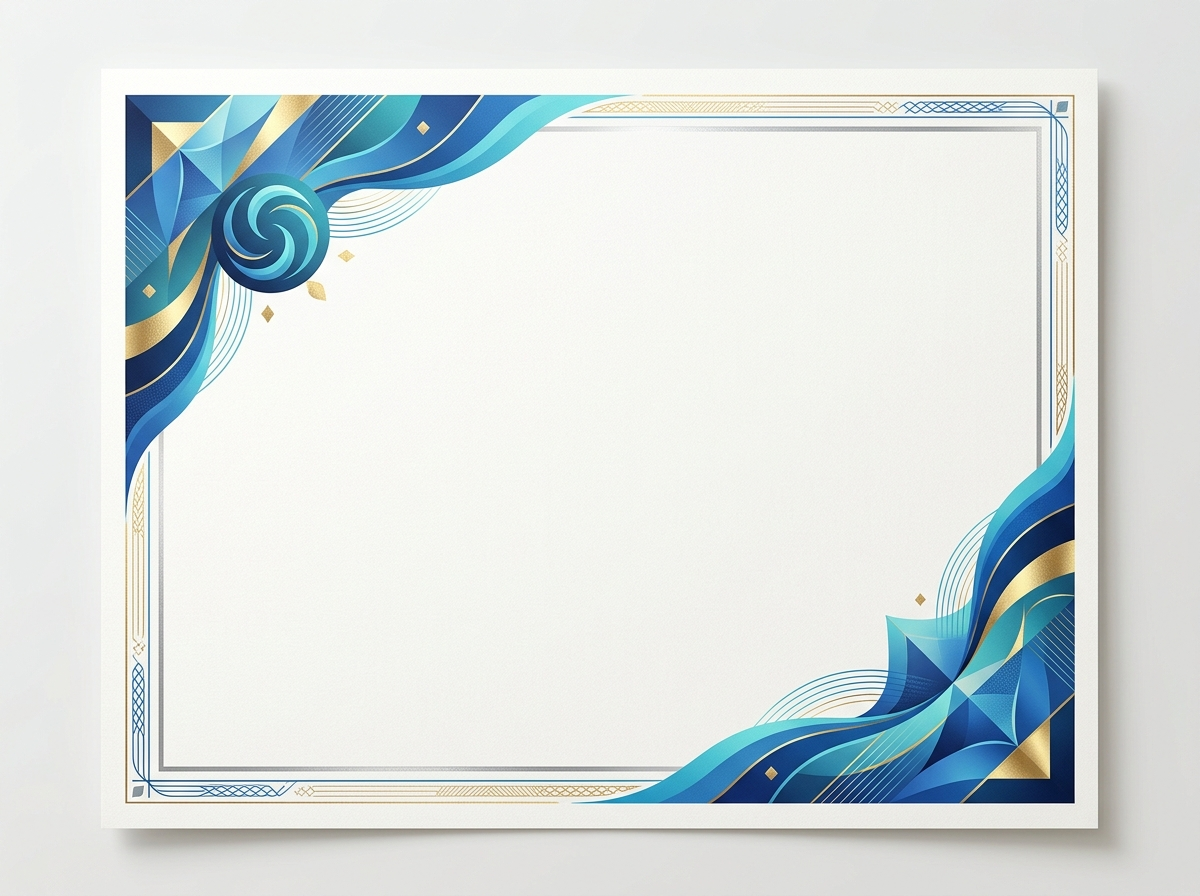
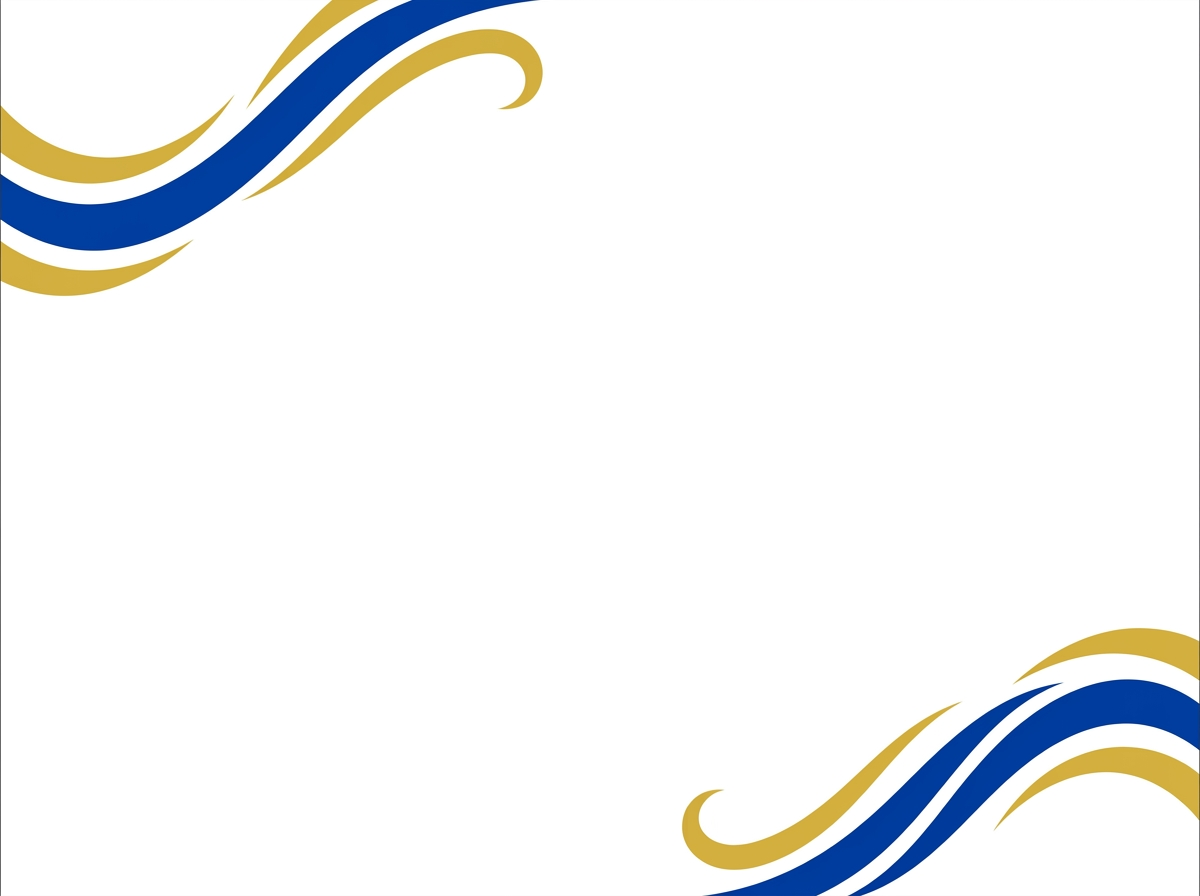
Fix UI glitches, refine certificate template coordinates, and use flat background template

diff --git a/app/services/certificate_builder.py b/app/services/certificate_builder.py
@@ -41,27 +41,27 @@ def generate_certificate_pdf(name: str, filename: str) -> str:
         # Subtitle
         c.setFont("Helvetica", 12)
         c.setFillColor(HexColor("#34495e"))
-        c.drawCentredString(width / 2.0, height - 200, "THIS IS TO CERTIFY THAT")
+        c.drawCentredString(width / 2.0, height - 210, "THIS IS TO CERTIFY THAT")
 
         # Recipient Name (Elegant font)
         c.setFont("Times-BoldItalic", 56)
         c.setFillColor(HexColor("#111827"))
-        c.drawCentredString(width / 2.0, height - 290, name)
+        c.drawCentredString(width / 2.0, height - 300, name)
         
         # Underline for the name
         c.setStrokeColor(HexColor("#0f3156"))
         c.setLineWidth(1.5)
-        c.line(width / 2.0 - 180, height - 310, width / 2.0 + 180, height - 310)
+        c.line(width / 2.0 - 200, height - 320, width / 2.0 + 200, height - 320)
         
         # Completion Text
         c.setFont("Helvetica", 12)
         c.setFillColor(HexColor("#34495e"))
-        c.drawCentredString(width / 2.0, height - 350, "HAS SUCCESSFULLY COMPLETED")
+        c.drawCentredString(width / 2.0, height - 370, "HAS SUCCESSFULLY COMPLETED")
 
         # Course Name
         c.setFont("Helvetica-Bold", 24)
         c.setFillColor(HexColor("#0f3156"))
-        c.drawCentredString(width / 2.0, height - 410, "THE COURSE NAME")
+        c.drawCentredString(width / 2.0, height - 430, "THE COURSE NAME")
 
         # Footer Lines (Date & Signature)
         c.setStrokeColor(HexColor("#34495e"))
@@ -75,6 +75,11 @@ def generate_certificate_pdf(name: str, filename: str) -> str:
         # Signature Line
         c.line(width / 2.0 + 120, 110, width / 2.0 + 280, 110)
         c.drawCentredString(width / 2.0 + 200, 95, "SIGNATURE")
+
+        # Issued automatically tag (Bottom Right)
+        c.setFont("Helvetica", 8)
+        c.setFillColor(HexColor("#95a5a6"))
+        c.drawRightString(width - 40, 40, "Issued automatically by BulkCertify")
 
         c.save()
         return filepath
